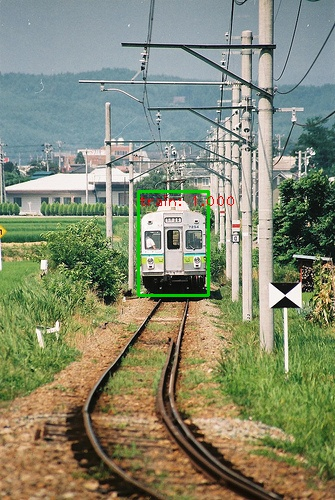
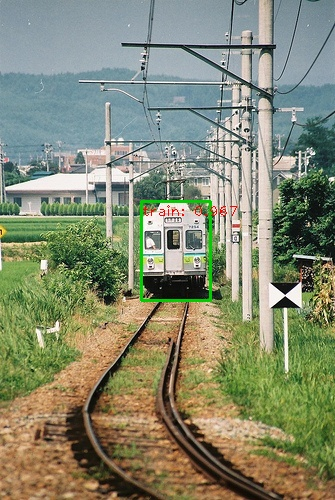
demo

Changed region(s): [[0.3881, 0.36, 0.7164, 0.63]]

diff --git a/demo.py b/demo.py
@@ -30,7 +30,8 @@ from roi_data_layer.roidb import combined_roidb
 from roi_data_layer.roibatchLoader import roibatchLoader
 from model.utils.config import cfg, cfg_from_file, cfg_from_list, get_output_dir
 from model.rpn.bbox_transform import clip_boxes
-from model.nms.nms_wrapper import nms
+# from model.nms.nms_wrapper import nms  # 0.4.0 version
+from  model.roi_layers import nms
 from model.rpn.bbox_transform import bbox_transform_inv
 from model.utils.net_utils import save_net, load_net, vis_detections
 from model.utils.blob import im_list_to_blob
@@ -265,12 +266,12 @@ if __name__ == '__main__':
         im_file = os.path.join(args.image_dir, imglist[num_images])
         im = cv2.imread(im_file)
         # im_in = np.array(imread(im_file))
-        if len(im_in.shape) == 2:
-          im_in = im_in[:,:,np.newaxis]
-          im_in = np.concatenate((im_in,im_in,im_in), axis=2)
+        if len(im.shape) == 2:
+          im = im[:,:,np.newaxis]
+          im = np.concatenate((im,im,im), axis=2)
         # rgb -> bgr
         # im_in = im_in[:,:,::-1]
-      im = im_in
+      # im = im #0.4.0 version
 
       blobs, im_scales = _get_image_blob(im)
       assert len(im_scales) == 1, "Only single-image batch implemented"
@@ -281,10 +282,10 @@ if __name__ == '__main__':
       im_data_pt = im_data_pt.permute(0, 3, 1, 2)
       im_info_pt = torch.from_numpy(im_info_np)
 
-      im_data.data.resize_(im_data_pt.size()).copy_(im_data_pt)
-      im_info.data.resize_(im_info_pt.size()).copy_(im_info_pt)
-      gt_boxes.data.resize_(1, 1, 5).zero_()
-      num_boxes.data.resize_(1).zero_()
+      im_data.resize_(im_data_pt.size()).copy_(im_data_pt)
+      im_info.resize_(im_info_pt.size()).copy_(im_info_pt)
+      gt_boxes.resize_(1, 1, 5).zero_()
+      num_boxes.resize_(1).zero_()
 
       # pdb.set_trace()
       det_tic = time.time()
@@ -337,7 +338,7 @@ if __name__ == '__main__':
       if vis:
           im2show = np.copy(im)
       for j in xrange(1, len(pascal_classes)):
-          inds = torch.nonzero(scores[:,j]>thresh).view(-1)
+          inds = torch.nonzero(scores[:,j]>thresh, as_tuple=False).view(-1)
           # if there is det
           if inds.numel() > 0:
             cls_scores = scores[:,j][inds]
@@ -350,7 +351,8 @@ if __name__ == '__main__':
             cls_dets = torch.cat((cls_boxes, cls_scores.unsqueeze(1)), 1)
             # cls_dets = torch.cat((cls_boxes, cls_scores), 1)
             cls_dets = cls_dets[order]
-            keep = nms(cls_dets, cfg.TEST.NMS, force_cpu=not cfg.USE_GPU_NMS)
+            # keep = nms(cls_dets, cfg.TEST.NMS, force_cpu=not cfg.USE_GPU_NMS) # 0.4.0 version
+            keep = nms(cls_dets[:, :4], cls_dets[:, 4], cfg.TEST.NMS)
             cls_dets = cls_dets[keep.view(-1).long()]
             if vis:
               im2show = vis_detections(im2show, pascal_classes[j], cls_dets.cpu().numpy(), 0.5)
